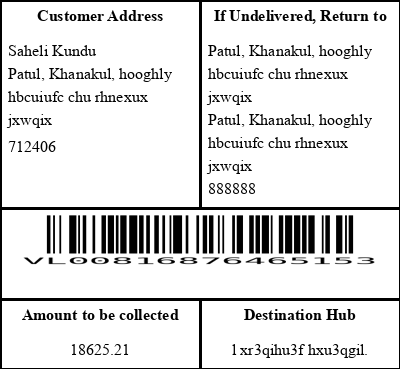
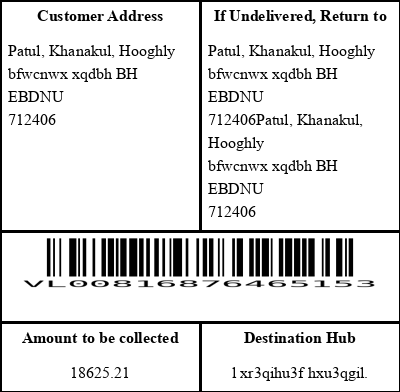
final-4

diff --git a/templates/form.html b/templates/form.html
@@ -75,26 +75,26 @@
     <div class="label-card">
         <h2 class="text-center mb-4">Shipping Label Generator</h2>
         <form method="post">
-            <div class="mb-3">
+            <!-- <div class="mb-3">
                 <label for="customer_name">Customer Name</label>
                 <input class="form-control" name="customer_name" id="customer_name" placeholder="Customer Name" required>
-            </div>
+            </div> -->
             <div class="mb-3">
                 <label for="customer_address">Customer Address</label>
                 <textarea class="form-control" name="customer_address" id="customer_address" placeholder="Customer Address" rows="3" required></textarea>
             </div>
-            <div class="mb-3">
+            <!-- <div class="mb-3">
                 <label for="pincode">Pincode</label>
                 <input class="form-control" name="pincode" id="pincode" placeholder="Pincode" required>
-            </div>
+            </div> -->
             <div class="mb-3">
                 <label for="return_address">Return Address</label>
                 <textarea class="form-control" name="return_address" id="return_address" placeholder="Return Address" rows="3" required></textarea>
             </div>
-            <div class="mb-3">
+            <!-- <div class="mb-3">
                 <label for="return_pincode">Return Pincode</label>
                 <input class="form-control" name="return_pincode" id="return_pincode" placeholder="Return Pincode" required>
-            </div>
+            </div> -->
             <div class="mb-3">
                 <label for="amount">Amount to be collected</label>
                 <input class="form-control" name="amount" id="amount" placeholder="Amount to be collected" required>

diff --git a/app.py b/app.py
@@ -80,10 +80,12 @@ def index():
         col_width = (img_width // 2) - 2 * cell_pad_x
 
         # Prepare text and wrap
-        address_text_main = f"{data['customer_name']}\n{data['customer_address']}"
+        # address_text_main = f"{data['customer_name']}\n{data['customer_address']}"
+        address_text_main = f"{data['customer_address']}"
         address_lines = wrap_multiline_text(address_text_main, font_regular, col_width)
-        pincode_text = data['pincode']
-        return_text = f"{data['return_address']}\n{data['return_pincode']}"
+        # pincode_text = data['pincode']
+        # return_text = f"{data['return_address']}\n{data['return_pincode']}"
+        return_text = f"{data['return_address']}"
         return_lines = wrap_multiline_text(return_text, font_regular, col_width)
 
         # Line heights
@@ -135,7 +137,7 @@ def index():
             draw.text((cell_pad_x, y), line, font=font_regular, fill='black')
             y += line_height_regular
         y += 4
-        draw.text((cell_pad_x, y), pincode_text, font=font_regular, fill='black')
+        # draw.text((cell_pad_x, y), pincode_text, font=font_regular, fill='black')
 
         # Draw return address
         y = header_height + cell_pad_y
